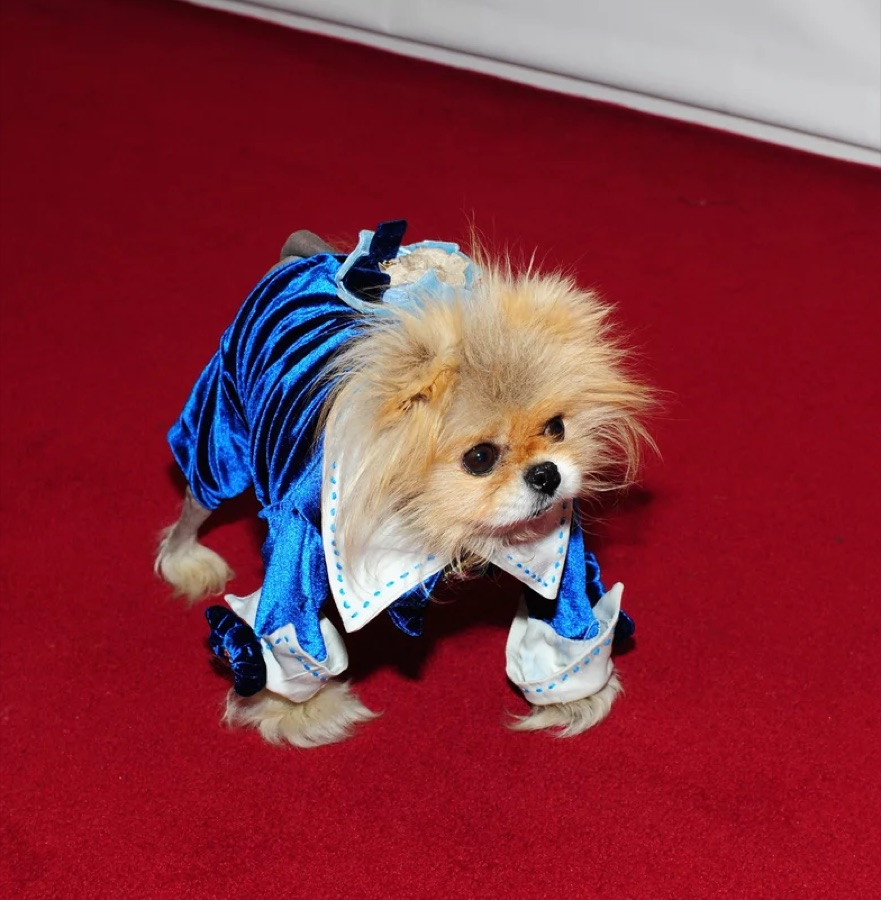
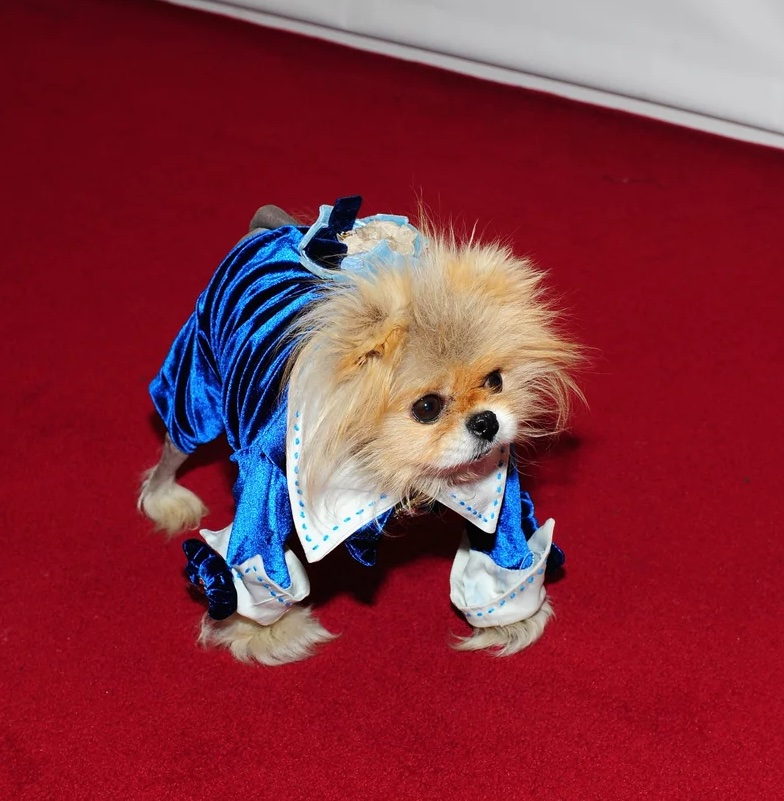
Put the wardrobe display beside its own controls
Choosing a look changed an image in the hero, far above the buttons,
so the click appeared to do nothing without scrolling back up. The
wardrobe is now one self-contained block: the large view sits to the
left of the caption and the four options, all visible together.

The hero keeps a single fixed portrait instead. The bonnet shot is
the only cutout of the four, so it sits on the page rather than in a
box, and at 300px it is shown at its native size rather than
upscaled. The stage is capped at 340px for the same reason.

Also regenerates two images that sips had upscaled past their source
resolution, which cost bytes without adding detail.

Claude-Session: https://claude.ai/code/session_0179DzVBKMwuM5ibsWvQfJDz

diff --git a/index.html b/index.html
@@ -16,6 +16,7 @@
   --raspberry-ink:#9B0E48;
   --champagne:#A8791F;
   --shadow:rgba(29,17,23,.10);
+  --glow:rgba(195,23,94,.16);
 }
 @media (prefers-color-scheme: dark){
   :root:not([data-theme="light"]){
@@ -31,6 +32,7 @@
     --raspberry-ink:#FF8AB2;
     --champagne:#D9AE55;
     --shadow:rgba(0,0,0,.45);
+    --glow:rgba(255,95,148,.20);
   }
 }
 :root[data-theme="dark"]{
@@ -46,6 +48,7 @@
   --raspberry-ink:#FF8AB2;
   --champagne:#D9AE55;
   --shadow:rgba(0,0,0,.45);
+  --glow:rgba(255,95,148,.20);
 }
 
 *{box-sizing:border-box}
@@ -101,15 +104,22 @@ a{color:var(--raspberry-ink);text-decoration-thickness:1px;text-underline-offset
   letter-spacing:.2em;text-transform:uppercase;color:var(--mauve);margin-top:8px}
 
 /* ---------- plate ---------- */
-.plate{
-  background:var(--plate);
-  border:1px solid var(--rule);
-  padding:20px 20px 16px;
-  box-shadow:0 22px 44px -28px var(--shadow);
-  position:relative;
+.portrait{margin:0;position:relative;display:flex;justify-content:center;align-items:center}
+.portrait::before{
+  content:"";position:absolute;width:min(88%,360px);aspect-ratio:1;border-radius:50%;
+  background:radial-gradient(circle,var(--glow) 0%,transparent 70%);
 }
-.plate .frame{border:1px solid var(--rule-soft);display:block;overflow:hidden;background:var(--surface)}
-.plate .frame img{display:block;width:100%;aspect-ratio:4/5;object-fit:cover;object-position:center}
+.portrait img{position:relative;display:block;width:100%;max-width:300px;height:auto}
+
+.stage{
+  margin:0;background:var(--plate);border:1px solid var(--rule);padding:12px;
+  max-width:340px;margin-inline:auto;
+  box-shadow:0 22px 44px -28px var(--shadow);
+}
+.stage img{
+  display:block;width:100%;aspect-ratio:4/5;object-fit:cover;object-position:center;
+  background:var(--surface);
+}
 .plate-tag{
   display:flex;justify-content:space-between;align-items:baseline;gap:12px;
   margin-top:14px;padding-top:12px;border-top:1px solid var(--rule-soft);
@@ -127,23 +137,27 @@ section{padding-block:clamp(40px,6vw,68px)}
 .head .eyebrow{margin-left:auto}
 
 /* ---------- wardrobe ---------- */
-.rack{display:grid;grid-template-columns:repeat(2,1fr);gap:14px}
-@media(min-width:760px){.rack{grid-template-columns:repeat(4,1fr)}}
+.wardrobe{display:grid;grid-template-columns:1fr;gap:26px;align-items:start}
+@media(min-width:820px){.wardrobe{grid-template-columns:300px 1fr;gap:44px}}
+.detail{min-width:0}
+.detail .plate-tag{margin-top:0;padding-top:0;border-top:0}
+.detail .plate-note{max-width:54ch;min-height:4.8em}
+.rack{display:flex;flex-direction:column;gap:8px;margin-top:22px;max-width:560px}
 .look{
   appearance:none;font:inherit;color:inherit;text-align:left;cursor:pointer;
-  background:var(--plate);border:1px solid var(--rule);
-  padding:10px 12px 12px;display:flex;flex-direction:column;gap:6px;
-  transition:border-color .2s, transform .2s, background .2s;
+  background:var(--plate);border:1px solid var(--rule);padding:8px 16px 8px 8px;
+  display:grid;grid-template-columns:54px 1fr auto;gap:16px;align-items:center;
+  transition:border-color .2s, background .2s;
 }
-.look img{display:block;width:100%;aspect-ratio:1;object-fit:cover;object-position:center;background:var(--surface)}
+.look img{display:block;width:54px;height:54px;object-fit:cover;object-position:center;background:var(--surface)}
+.look .nm{font-family:"Bodoni Moda",serif;font-size:18px;line-height:1.15}
 .look .no{font-family:"IBM Plex Mono",monospace;font-size:10.5px;letter-spacing:.18em;color:var(--mauve)}
-.look .nm{font-family:"Bodoni Moda",serif;font-size:17px;line-height:1.15}
-.look:hover{border-color:var(--raspberry);transform:translateY(-3px)}
+.look:hover{border-color:var(--raspberry)}
 .look:focus-visible{outline:2px solid var(--raspberry);outline-offset:3px}
 .look[aria-pressed="true"]{border-color:var(--raspberry);background:var(--paper)}
 .look[aria-pressed="true"] .no{color:var(--raspberry)}
 .look[aria-pressed="true"] .nm{font-style:italic}
-@media(prefers-reduced-motion:reduce){.look,.look:hover{transition:none;transform:none}}
+@media(prefers-reduced-motion:reduce){.look{transition:none}}
 
 /* ---------- record ---------- */
 .record{display:grid;grid-template-columns:1fr;gap:0;border-top:1px solid var(--rule)}
@@ -211,10 +225,9 @@ footer .fine{font-size:13px;color:var(--mauve);max-width:46ch}
       <p class="lede">He had <b>alopecia</b>, so he was always cold, so he always wore something. Ten years of television later, the sweater was no longer a treatment. It was a <b>look</b>.</p>
       <p class="sig">&ldquo;Tum Ti Tum Tum.&rdquo;<small>Signed, every tweet</small></p>
     </div>
-    <figure class="plate" style="margin:0">
-      <span class="frame"><img id="stage" src="images/giggy-daytime.jpg" alt="Giggy walking outdoors in a pink quilted coat with black trim"></span>
-      <div class="plate-tag"><strong id="tagName">Daytime Pink</strong><span id="tagNo">No. 01</span></div>
-      <figcaption class="plate-note" id="tagNote"></figcaption>
+    <figure class="portrait">
+      <img src="images/giggy-bonnet.png" width="300" height="300"
+           alt="Giggy in a magenta ruffled bonnet fastened with a jewelled brooch">
     </figure>
   </div>
 </div>
@@ -223,9 +236,19 @@ footer .fine{font-size:13px;color:var(--mauve);max-width:46ch}
   <div class="wrap">
     <div class="head">
       <h2>The Wardrobe</h2>
-      <span class="eyebrow">Select a look to dress him</span>
+      <span class="eyebrow">Four looks from the archive</span>
     </div>
-    <div class="rack" id="rack"></div>
+    <div class="wardrobe">
+      <figure class="stage">
+        <img id="stage" src="images/giggy-daytime.jpg"
+             alt="Giggy walking outdoors in a pink quilted coat with black trim">
+      </figure>
+      <div class="detail">
+        <div class="plate-tag"><strong id="tagName">Daytime Pink</strong><span id="tagNo">No. 01</span></div>
+        <p class="plate-note" id="tagNote"></p>
+        <div class="rack" id="rack"></div>
+      </div>
+    </div>
   </div>
 </section>
 
@@ -306,9 +329,9 @@ const tagNote = document.getElementById("tagNote");
 
 rack.innerHTML = LOOKS.map((l, i) => `
   <button class="look" type="button" id="look-${i}" data-i="${i}" aria-pressed="${i === 0}">
-    <img src="${l.img}" alt="${l.alt}" loading="lazy">
-    <span class="no">${l.no}</span>
+    <img src="${l.img}" alt="" loading="lazy">
     <span class="nm">${l.name}</span>
+    <span class="no">${l.no}</span>
   </button>`).join("");
 
 function dress(i){
